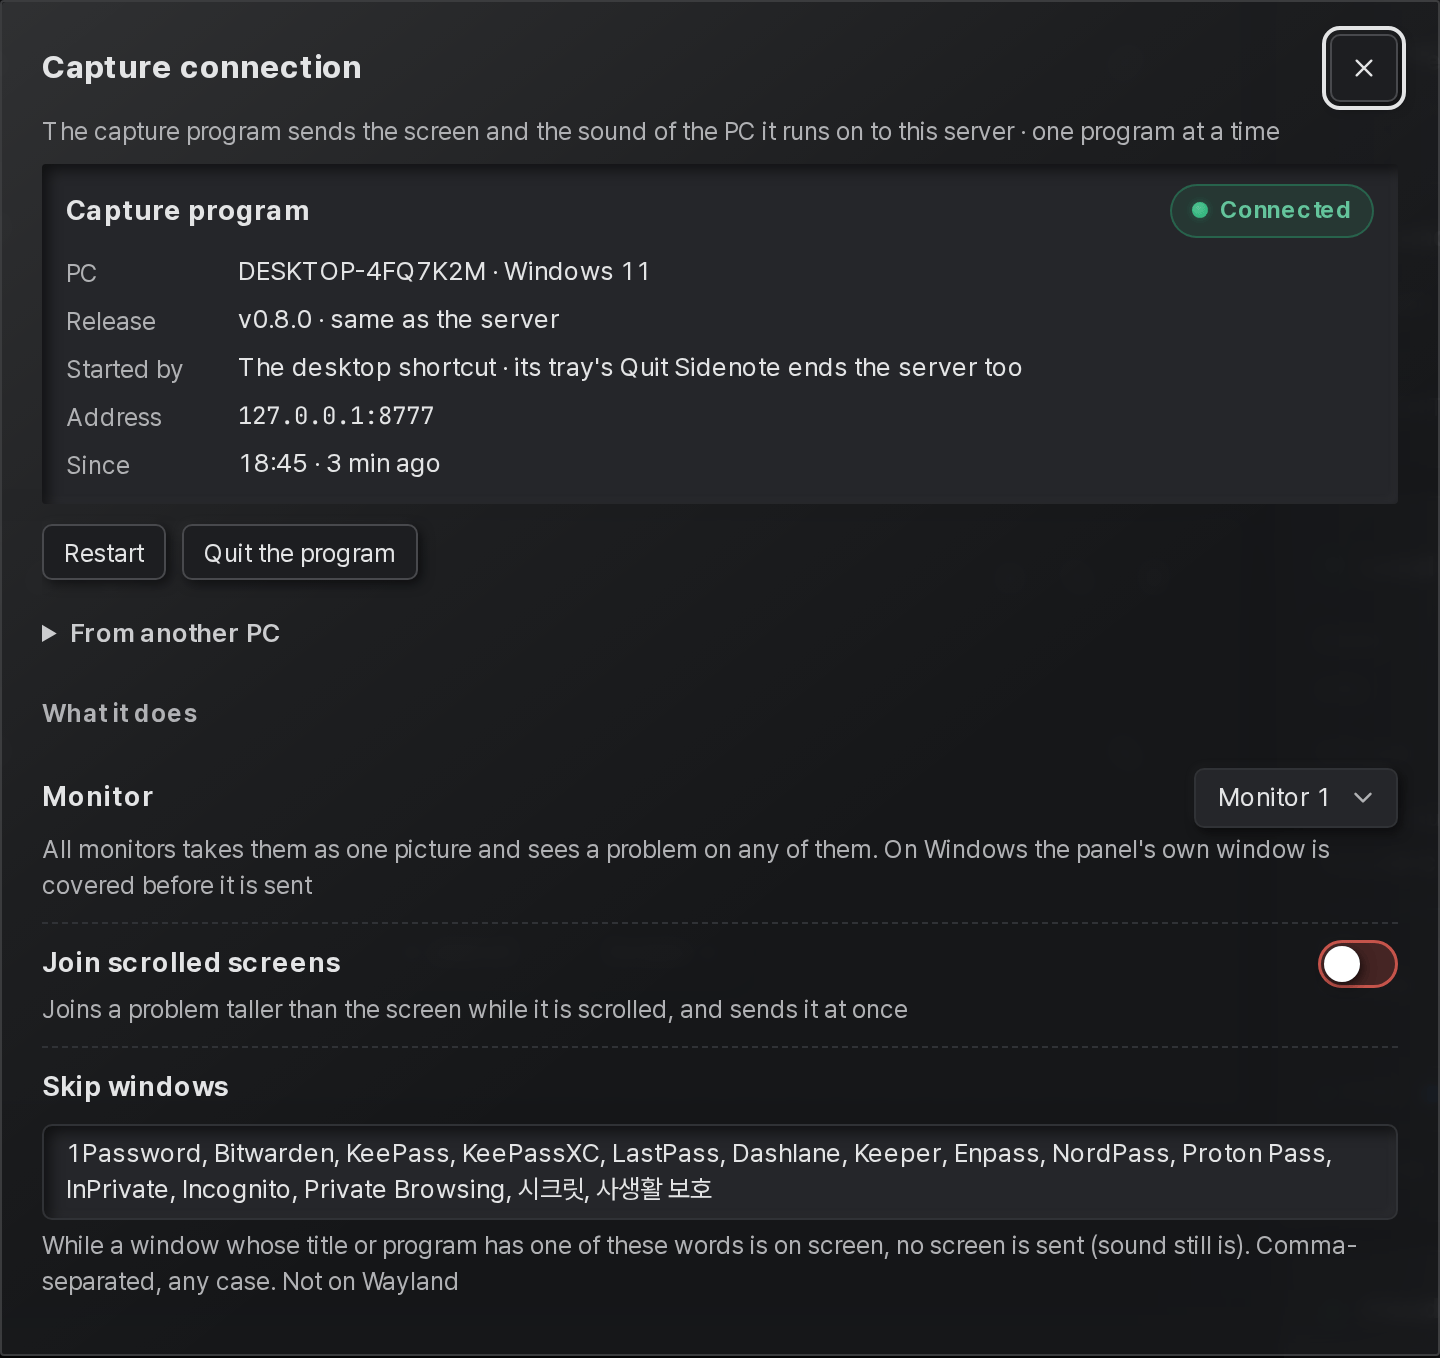
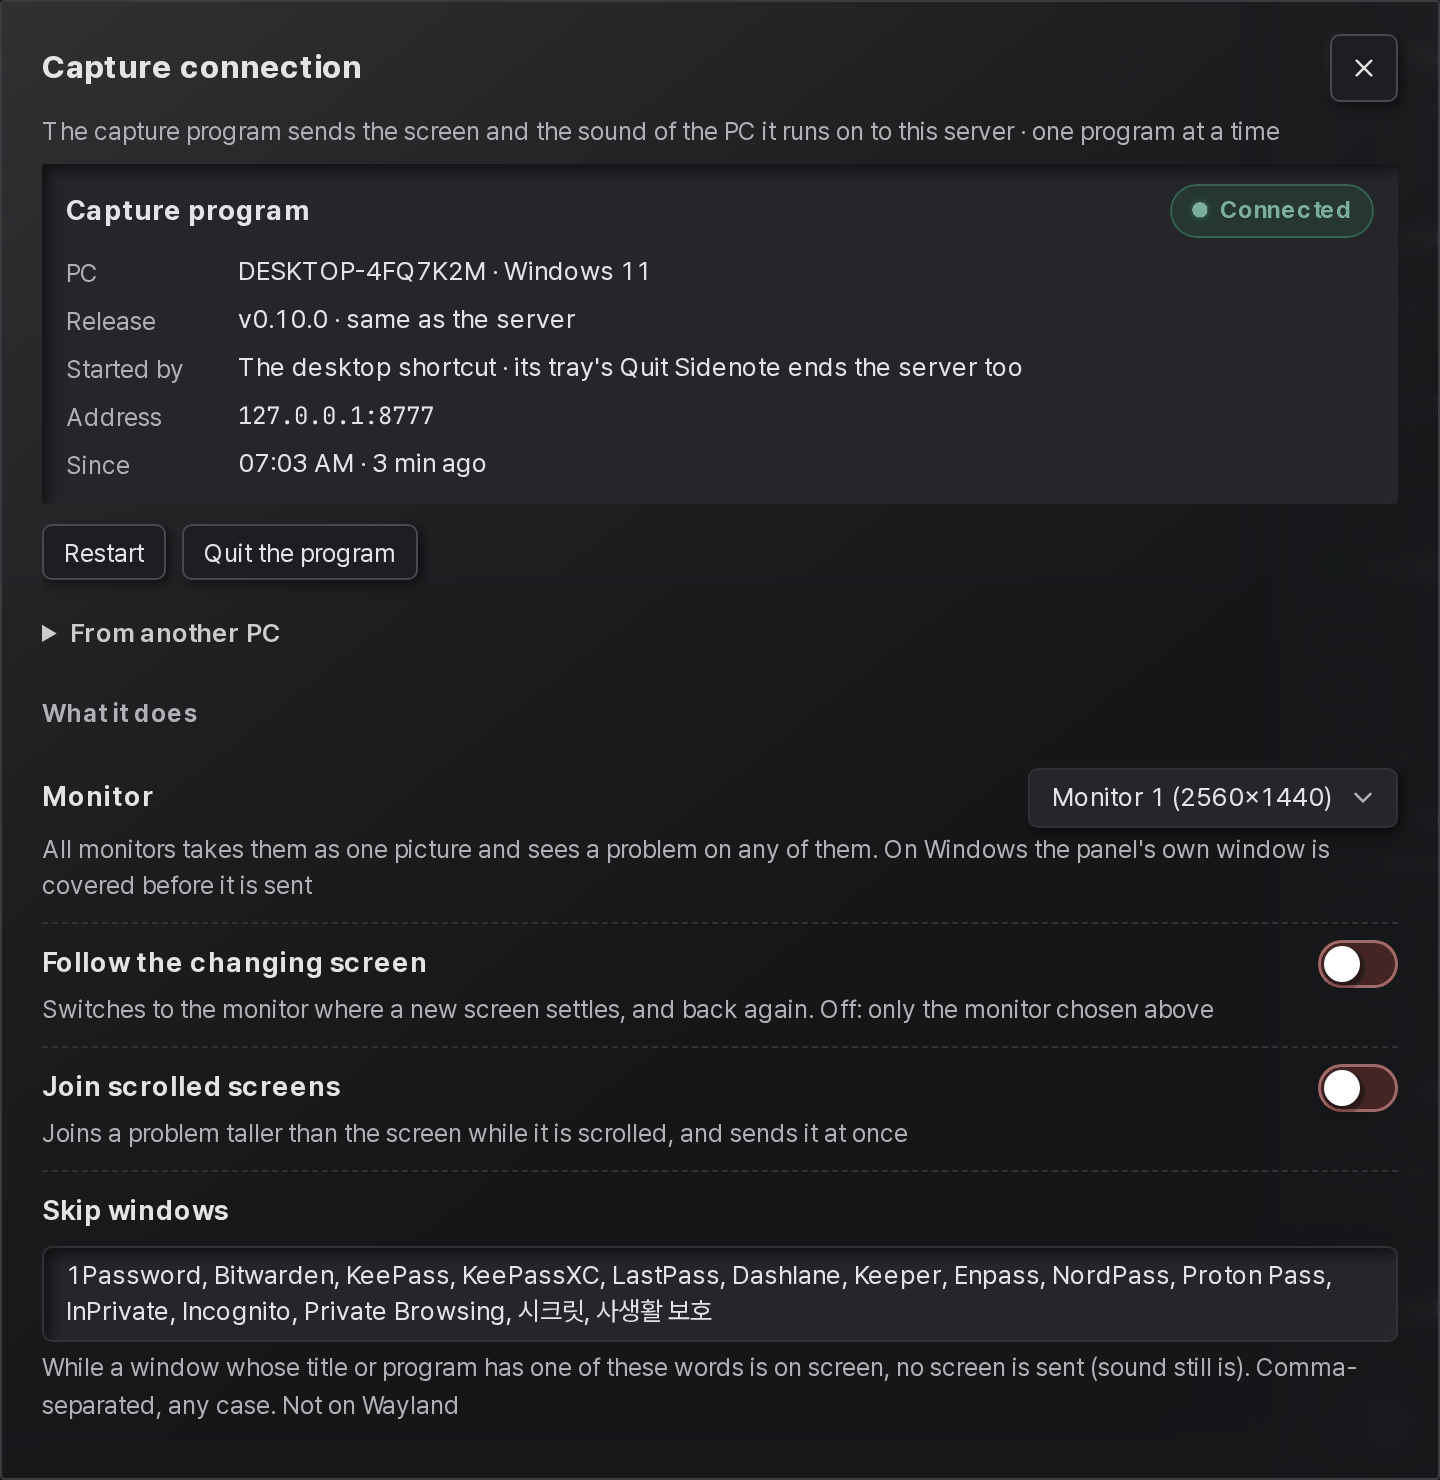
Sidenote 0.10.0

diff --git a/server/version.py b/server/version.py
@@ -7,4 +7,4 @@ Before tagging a release, set it here and in deploy/helm/sidenote/Chart.yaml.
 """
 
 # MAJOR.MINOR.PATCH, as semver.org writes it; the line is read as text, so it stays one line in this form
-VERSION = "0.9.0"
+VERSION = "0.10.0"

diff --git a/docs/README.md b/docs/README.md
@@ -351,7 +351,7 @@ of the same name. It is also the setup guide's first step.
 <p align="center">
   <picture>
     <source media="(prefers-color-scheme: dark)" srcset="assets/capture-connection-dark.png">
-    <img alt="Capture connection with a capture program connected: the Capture program card saying Connected, with its PC and system, its release the same as the server's, started by the desktop shortcut so that its tray's Quit Sidenote ends the server too, its address and when it connected; the keys Restart and Quit the program; another PC's ways folded; and the settings Monitor, Join scrolled screens and Skip windows" src="assets/capture-connection-light.png" width="560">
+    <img alt="Capture connection with a capture program connected: the Capture program card saying Connected, with its PC and system, its release the same as the server's, started by the desktop shortcut so that its tray's Quit Sidenote ends the server too, its address and when it connected; the keys Restart and Quit the program; another PC's ways folded; and the settings Monitor, Follow the changing screen, Join scrolled screens and Skip windows" src="assets/capture-connection-light.png" width="560">
   </picture>
 </p>
 
@@ -471,7 +471,7 @@ notebook carry the same readings.
   - **Clear history**, which takes a second press; an answer still being written stays. Starred answers go with the
     rest, and so does **Recently deleted**.
 
-The version of Sidenote the server runs stands beside the name in the top bar, such as **v0.9.0**, and opens that
+The version of Sidenote the server runs stands beside the name in the top bar, such as **v0.10.0**, and opens that
 release's notes.
 
 The speech language is not in this menu: it is in **Solver settings**, in its **Speech** section.
@@ -484,7 +484,7 @@ model is not downloaded or not answering, the agent is in use but needs signing 
 thread scrolls, and the right column stays under it. **Copy command** in an alert copies the command to type in the
 terminal.
 
-When a newer release of Sidenote is out, the alert bar says so in a band of its own, **Sidenote 0.9.0 is out**, with a
+When a newer release of Sidenote is out, the alert bar says so in a band of its own, **Sidenote 0.11.0 is out**, with a
 **Release notes** link to the release's page on GitHub. Its close key hides it for that version in this browser, and the
 next release shows again. The server asks GitHub once a day (section 14); **Check for new versions** in **Solver
 settings** turns that off.

diff --git a/docs/air-gapped.md b/docs/air-gapped.md
@@ -49,7 +49,7 @@ program keeps the GPU busy; leave it out if you do not want that.
 | 8 GB | `sidenote-gemma4:e2b` | none | 4.6 GB |
 
 ```bash
-V=0.9.0                                     # the newest release, from the releases page
+V=0.10.0                                     # the newest release, from the releases page
 git clone --depth 1 --branch "v$V" https://github.com/kanggu12/sidenote
 cd sidenote
 ./sidenote up                               # builds the images, pulls Ollama's and downloads the speech model
@@ -195,7 +195,7 @@ Push the bundle's images to a registry inside the network, under the names the c
 their tag:
 
 ```bash
-V=0.9.0                                     # the release the bundle was made from
+V=0.10.0                                     # the release the bundle was made from
 gunzip -c images.tar.gz | docker load
 for name in sidenote sidenote-runner; do
   docker tag "$name:local" "registry.internal/$name:$V" && docker push "registry.internal/$name:$V"

diff --git a/CHANGELOG.md b/CHANGELOG.md
@@ -6,6 +6,8 @@ that only fixes raises the patch number. Each release's section here is its rele
 
 ## [Unreleased]
 
+## [0.10.0] - 2026-11-13
+
 ### Added
 
 - **Maintenance**, in the gear menu: what `./sidenote doctor`, `report`, `events`, `logs`, `llm` and `backup` tell, in the
@@ -802,7 +804,8 @@ that only fixes raises the patch number. Each release's section here is its rele
 
 The first public release: the app for Windows and Linux, the Docker setup, the Helm chart and the capture program.
 
-[Unreleased]: https://github.com/kanggu12/sidenote/compare/v0.9.0...HEAD
+[Unreleased]: https://github.com/kanggu12/sidenote/compare/v0.10.0...HEAD
+[0.10.0]: https://github.com/kanggu12/sidenote/compare/v0.9.0...v0.10.0
 [0.9.0]: https://github.com/kanggu12/sidenote/compare/v0.8.1...v0.9.0
 [0.8.1]: https://github.com/kanggu12/sidenote/compare/v0.8.0...v0.8.1
 [0.8.0]: https://github.com/kanggu12/sidenote/compare/v0.7.0...v0.8.0

diff --git a/README.md b/README.md
@@ -12,7 +12,7 @@
 
 <p align="center">
   <a href="https://github.com/kanggu12/sidenote/actions/workflows/ci.yml"><img alt="CI" src="https://github.com/kanggu12/sidenote/actions/workflows/ci.yml/badge.svg"></a>
-  <a href="https://github.com/kanggu12/sidenote/releases"><img alt="Release v0.9.0" src="docs/assets/badges/release.svg"></a>
+  <a href="https://github.com/kanggu12/sidenote/releases"><img alt="Release v0.10.0" src="docs/assets/badges/release.svg"></a>
   <a href="LICENSE"><img alt="License: MIT" src="docs/assets/badges/license.svg"></a>
   <img alt="Runs on Windows, Linux and macOS" src="docs/assets/badges/runs-on.svg">
   <img alt="GPU: NVIDIA, AMD, Apple silicon or none" src="docs/assets/badges/gpu.svg">
